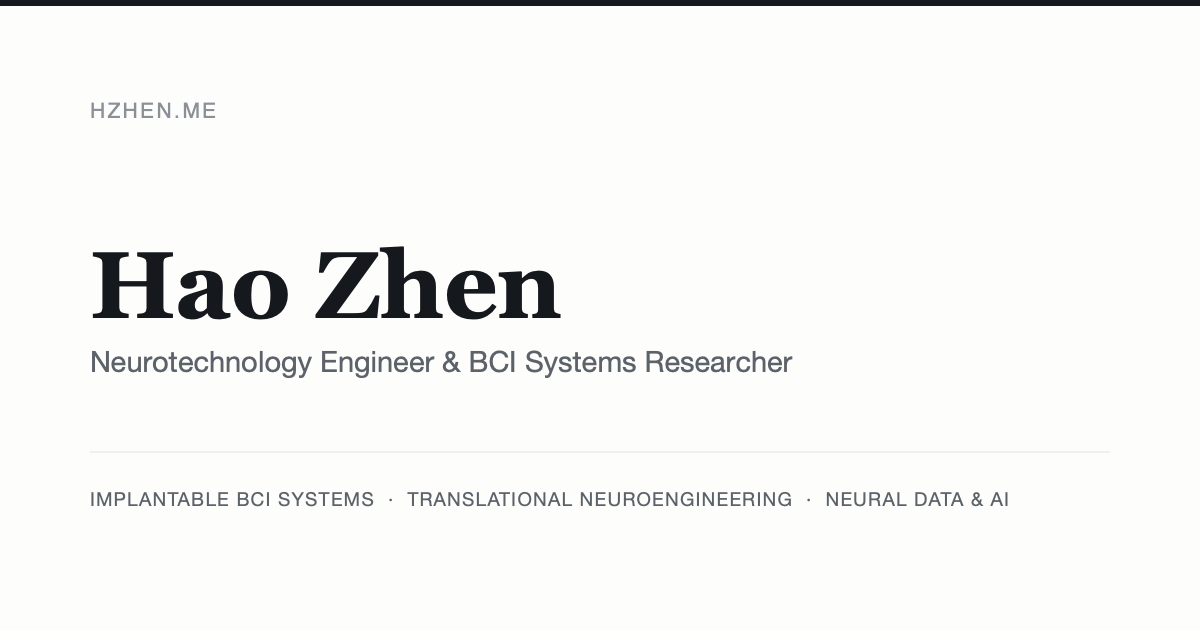
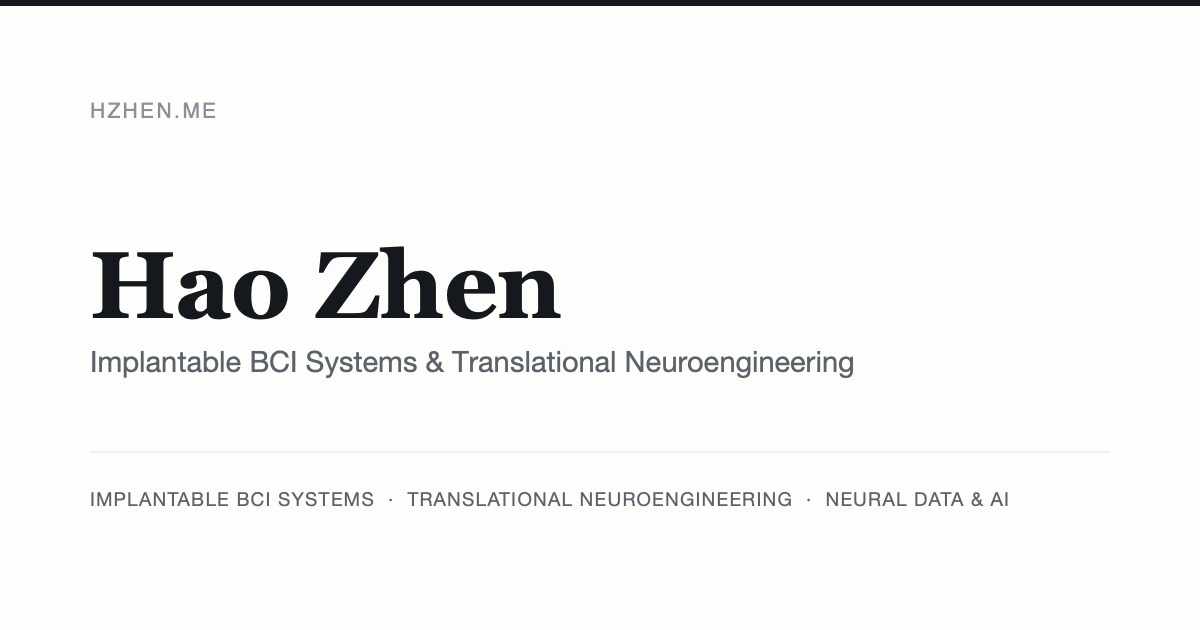
refine: field-based identity, active research voice, conditional publications
Positioning pass. No layout, dependency, or architecture changes.

Identity is now stated as a field rather than a title. `site.role` becomes
`site.field` ("Implantable BCI Systems & Translational Neuroengineering") with
a comment saying why, and `.hero__role` becomes `.hero__field` so the markup
cannot drift back toward a job title. The hero statement, SEO title, and meta
description are updated to match.

Research descriptions move from stated interest to active agenda — "I am
interested in…" becomes "My work examines…" / "This work extends from…" /
"My research examines…". Topics and framing questions are unchanged, and
nothing about publication status is implied. Selected Work descriptions are
rewritten to lead with system-level scope; no seniority verbs were introduced.
About is rewritten as two paragraphs tracing the trajectory from complex
engineering systems through implantable medical technology to clinical
translation and neural information, without naming that progression as a claim.

Publications now disappear entirely while the array is empty: no section, no
nav link, and no "in preparation" placeholder announcing an absence. Both the
section and the nav entry are derived from publications.length, so adding the
first real entry restores them with no flag to flip. The data model, the
Publication types, and DOI/preprint/code/paper link support are untouched —
verified by building with a temporary entry, confirming the section and nav
[…]

Changed region(s): [[0.0617, 0.5429, 0.7092, 0.6032]]

diff --git a/src/data/site.ts b/src/data/site.ts
@@ -5,6 +5,8 @@
  * name, role, the hero statement, or where people can find you.
  */
 
+import { publications } from './publications.ts';
+
 export interface NavItem {
   label: string;
   href: string;
@@ -20,11 +22,20 @@ export interface ExternalLink {
 
 export const site = {
   name: 'Hao Zhen',
-  role: 'Neurotechnology Engineer & BCI Systems Researcher',
+
+  /**
+   * The field, not a job title.
+   *
+   * This line sits directly under the name and is the primary identity
+   * descriptor, so it names the area of work rather than a position or rank.
+   * Keeping it field-based is deliberate: it stays accurate across
+   * institutions. Do not put a corporate title here.
+   */
+  field: 'Implantable BCI Systems & Translational Neuroengineering',
 
   /** The hero statement. One paragraph, no marketing language. */
   statement:
-    'I work on high-bandwidth implantable brain–computer interfaces, with a focus on the systems that acquire, transmit, and interpret neural information—from neural recording hardware to reliable clinical deployment and AI-based decoding.',
+    'My work spans the architecture and translation of high-bandwidth implantable brain–computer interfaces—from neural acquisition and wireless telemetry to system reliability, preclinical validation, clinical deployment, and neural information processing.',
 
   /** Rendered beneath the hero statement, joined with a middle dot. */
   researchAreas: [
@@ -38,9 +49,9 @@ export const site = {
 } as const;
 
 export const seo = {
-  title: 'Hao Zhen — Neurotechnology Engineer & BCI Systems Researcher',
+  title: 'Hao Zhen — Implantable BCI Systems & Translational Neuroengineering',
   description:
-    'Hao Zhen works on implantable brain–computer interfaces, neural systems, translational neuroengineering, and neural data technologies.',
+    'Hao Zhen works on high-bandwidth implantable brain–computer interfaces, neural systems, translational neuroengineering, clinical translation, and neural information technologies.',
   keywords: [
     'Hao Zhen',
     'brain-computer interface',
@@ -53,15 +64,27 @@ export const seo = {
   ],
   /** Open Graph image, relative to the site root. Replace public/og.png to change it. */
   image: '/og.png',
-  imageAlt: 'Hao Zhen — Neurotechnology Engineer & BCI Systems Researcher',
+  imageAlt: 'Hao Zhen — Implantable BCI Systems & Translational Neuroengineering',
 } as const;
 
-export const nav: NavItem[] = [
+/**
+ * Top navigation.
+ *
+ * Publications is listed here but filtered out below while there is nothing to
+ * link to, so the nav never points at a section the page does not render. Add
+ * the first entry to `publications.ts` and both the link and the section come
+ * back on their own — no edit needed here.
+ */
+const allNav: NavItem[] = [
   { label: 'Research', href: '/#research' },
   { label: 'Work', href: '/#work' },
   { label: 'Publications', href: '/#publications' },
   { label: 'About', href: '/#about' },
 ];
+
+export const nav: NavItem[] = allNav.filter(
+  (item) => item.href !== '/#publications' || publications.length > 0,
+);
 
 /**
  * Secondary / external links.

diff --git a/src/data/research.ts b/src/data/research.ts
@@ -8,7 +8,10 @@
 export interface ResearchArea {
   /** Short title, e.g. "Implantable BCI Systems". */
   title: string;
-  /** One or two sentences in the first person. */
+  /**
+   * One or two sentences describing the agenda in the first person. State what
+   * the work examines, not what the author finds interesting.
+   */
   description: string;
   /** Short noun phrases, rendered as a plain list. Keep them lowercase. */
   topics: string[];
@@ -20,7 +23,7 @@ export const researchAreas: ResearchArea[] = [
   {
     title: 'Implantable BCI Systems',
     description:
-      'I am interested in the architecture of high-bandwidth implantable neural interfaces and the engineering constraints that determine their real-world performance.',
+      'My work examines the architecture of high-bandwidth implantable neural interfaces and the engineering constraints that determine their real-world performance.',
     topics: [
       'neural recording systems',
       'implant electronics',
@@ -37,7 +40,7 @@ export const researchAreas: ResearchArea[] = [
   {
     title: 'Translational Neuroengineering',
     description:
-      'My work also focuses on translating experimental neurotechnology into systems that can operate reliably in preclinical and clinical environments.',
+      'This work extends from experimental neurotechnology to systems designed for reliable operation in preclinical and clinical environments.',
     topics: [
       'verification and validation',
       'system reliability',
@@ -53,7 +56,7 @@ export const researchAreas: ResearchArea[] = [
   {
     title: 'Neural Data & AI',
     description:
-      'I am interested in how neural information should be represented, preserved, transmitted, and modeled in future brain–computer interfaces.',
+      'My research examines how neural information should be represented, preserved, transmitted, and modeled across future brain–computer interfaces.',
     topics: [
       'raw neural signals',
       'spikes and LFP',

diff --git a/src/data/about.ts b/src/data/about.ts
@@ -1,9 +1,13 @@
 /**
- * Biography. Two paragraphs, written in the third person, no exaggeration.
- * Edit the strings below; the layout adapts to any number of paragraphs.
+ * Biography. Two paragraphs, third person, no exaggeration.
+ *
+ * The job of this section is to connect the trajectory — complex engineering
+ * systems, implantable medical technology, BCI systems, clinical translation,
+ * neural information — by simply stating it in order. Do not spell the
+ * progression out as a claim, and keep it to roughly this length.
  */
 
 export const biography: string[] = [
-  'Hao Zhen is a neurotechnology engineer and BCI systems researcher working on implantable brain–computer interfaces and translational neuroengineering. His work spans system architecture, neural interface hardware, wireless communication, verification and validation, preclinical studies, regulatory testing, and early clinical translation of implantable neurotechnology.',
-  'His research interests include high-bandwidth implantable neural interfaces, neural data acquisition and transmission, chronic neural interface reliability, distributed BCI systems, and neural signal processing.',
+  'Hao Zhen works at the intersection of implantable neurotechnology, systems engineering, and clinical translation. His experience spans BCI system architecture, neural communication hardware, verification and validation, preclinical studies, regulatory engineering, and early clinical deployment, building on earlier work in complex semiconductor manufacturing systems.',
+  'His research focuses on high-bandwidth implantable neural interfaces, neural information transmission, chronic interface reliability, distributed BCI systems, and neural decoding. He holds an M.Eng. in Engineering Management from Cornell University and a B.S. in Electrical and Computer Engineering from Northeastern University.',
 ];

diff --git a/src/data/publications.ts b/src/data/publications.ts
@@ -2,8 +2,12 @@
  * Publications and preprints.
  *
  * The array is empty on purpose: nothing is listed until it actually exists.
- * While it is empty the site renders a single line — "Research manuscripts in
- * preparation." — instead of an empty heading.
+ *
+ * While it is empty, the Publications section and its navigation link are not
+ * rendered at all — no heading, no "in preparation" placeholder, nothing that
+ * announces an absence. Adding the first entry below restores both on its own;
+ * there is nothing else to switch on. See `nav` in site.ts and the Publications
+ * section in pages/index.astro.
  *
  * To add the first entry, uncomment the example at the bottom of this file,
  * replace the fields, and drop it into `publications`. Every field except
@@ -34,9 +38,6 @@ export interface Publication {
 }
 
 export const publications: Publication[] = [];
-
-/** Shown in place of the list while `publications` is empty. */
-export const publicationsPlaceholder = 'Research manuscripts in preparation.';
 
 /*
  * ---------------------------------------------------------------------------

diff --git a/src/data/work.ts b/src/data/work.ts
@@ -25,13 +25,13 @@ export const work: WorkEntry[] = [
     organisation: 'Paradromics',
     heading: 'Implantable Brain–Computer Interfaces',
     description:
-      'Engineering and translation of implantable BCI systems spanning system architecture, neural communication platforms, verification and validation, preclinical studies, regulatory testing, and early clinical deployment.',
+      'System-level engineering and translation of implantable BCI systems spanning neural communication platforms, verification and validation, preclinical studies, regulatory testing, and early clinical deployment.',
   },
   {
     organisation: 'Applied Materials',
     heading: 'Complex High-Reliability Systems',
     description:
-      'Engineering experience in complex semiconductor equipment and high-reliability hardware systems.',
+      'Engineering of complex semiconductor manufacturing systems, with a focus on high-reliability electrical hardware and system integration.',
   },
 ];
 

diff --git a/src/styles/global.css b/src/styles/global.css
@@ -304,7 +304,7 @@ a:hover {
   margin-bottom: 1rem;
 }
 
-.hero__role {
+.hero__field {
   font-family: var(--font-sans);
   font-size: clamp(0.875rem, 0.83rem + 0.25vw, 1rem);
   font-weight: 500;
@@ -564,11 +564,6 @@ a:hover {
 .publications {
   display: grid;
   gap: 2rem;
-}
-
-.publications__empty {
-  font-style: italic;
-  color: var(--ink-muted);
 }
 
 .publication__title {

diff --git a/README.md b/README.md
@@ -1,6 +1,6 @@
 # hzhen.me
 
-Personal research website of **Hao Zhen** — Neurotechnology Engineer & BCI Systems Researcher.
+Personal research website of **Hao Zhen** — Implantable BCI Systems & Translational Neuroengineering.
 
 A static, single-page site built with [Astro](https://astro.build) and TypeScript,
 deployed on Cloudflare Pages. No backend, no database, no client-side JavaScript,
@@ -93,7 +93,7 @@ to touch a component.
 | **Publications** | `src/data/publications.ts` | See below. |
 | **Links (ORCID, GitHub, LinkedIn)** | `src/data/site.ts` → `externalLinks` | See below. |
 | **Contact** | `src/data/site.ts` → `contact` | See below. |
-| **Hero statement / role / name** | `src/data/site.ts` → `site` | |
+| **Hero statement / field / name** | `src/data/site.ts` → `site` | `site.field` is the line under the name. It names the *field*, not a job title — keep it that way. |
 | **Page title, meta description, keywords** | `src/data/site.ts` → `seo` | |
 | **Selected work / education** | `src/data/work.ts` | Intentionally not a résumé — one restrained sentence per entry. Corporate job titles are deliberately not modelled; see below. |
 | **Professional service** | `src/data/service.ts` | Appointments, not employment. Kept out of the structured data; see below. |
@@ -102,9 +102,12 @@ to touch a component.
 
 ### Adding your first publication
 
-`src/data/publications.ts` exports an empty `publications` array. While it is empty
-the site renders one line — *"Research manuscripts in preparation."* — instead of an
-empty section. Nothing is invented or shown as a placeholder entry.
+`src/data/publications.ts` exports an empty `publications` array. While it is empty,
+**the Publications section and its navigation link are not rendered at all** — no
+heading, no "in preparation" line, nothing that draws attention to an absence. Adding
+the first entry restores the section and the nav link automatically; there is no flag
+to flip. The gating lives in two places, both driven by `publications.length`:
+`nav` in `src/data/site.ts`, and the Publications section in `src/pages/index.astro`.
 
 The `Publication` type is already defined with every field you will need:
 
